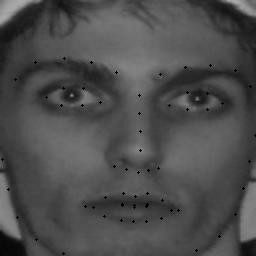
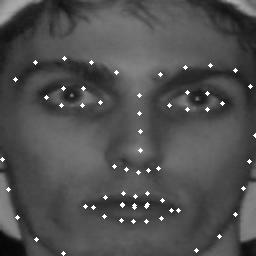
Face alignment

diff --git a/main.py b/main.py
@@ -9,8 +9,9 @@ import matplotlib.image as mpimg
 import matplotlib.pyplot as plt
 import argparse
 import sys
+from openface import openface
 
-def detect_faces(img):
+def detect_faces(img, NAME):
 
     mtcnn = MTCNN(image_size=256, margin=0, keep_all=True)
     # Get cropped and prewhitened image tensor
@@ -37,44 +38,50 @@ def process_landmarks(face):
 
     # Initialize dlib's face detector
     detector = dlib.get_frontal_face_detector()
+    predictor_model = "shape_predictor_68_face_landmarks.dat"
     # Detecting faces in the grayscale image
     rects = detector(gray, 1)
     # print(faces)
-    predictor = dlib.shape_predictor("shape_predictor_68_face_landmarks.dat")
+    predictor = dlib.shape_predictor(predictor_model)
+    face_aligner = openface.AlignDlib(predictor_model)
 
-    for (i, rect) in enumerate(rects):
+    landmarks = None
+    for rect in rects:
         # We will determine the facial landmarks for the face region, then
         # can convert the facial landmark (x, y)-coordinates to a NumPy array
         shape = predictor(gray, rect)
         shape = face_utils.shape_to_np(shape)
+        landmarks = shape
 
         # We then loop over the (x, y)-coordinates for the facial landmarks
         # and draw them on the image
         for (x, y) in shape:
-            cv2.circle(gray, (x, y), 2, (255, 255, 255), -1)
+            cv2.circle(gray, (x, y), 1, (255, 255, 255), -1)
 
-    # Now show the output image with the face detections as well as
-    # facial landmarks
+        alignedFace = face_aligner.align(256, gray, rect, landmarkIndices=openface.AlignDlib.OUTER_EYES_AND_NOSE)
+    
+        print(np.array(alignedFace).shape)
+        alignedFace = np.array(alignedFace)
 
-    array = np.array(gray)
-    print(np.shape(array))
-    img = Image.fromarray(array, 'L')
-
-    img.save(face)
-    img.show()
-    input("Press a key to continue...")
-    return shape
+        img = Image.fromarray(alignedFace, 'L')
+        img.save(face)
+        img.show()
+        input("Press a key to continue...")
+    # array = np.array(gray)
+    # img = Image.fromarray(array, 'L')
+    
+    return landmarks
 
 
 PATH = "img/"
-NAME = "frinces.jpg"
+NAME = "img3.jpg"
 img = Image.open(PATH+NAME)
 
-facelist = detect_faces(img)
+facelist = detect_faces(img, NAME)
 marks = []
 for face in facelist:
     marks.append(process_landmarks(face))
 
-# print(marks[0])
+# print(marks)
 
     
